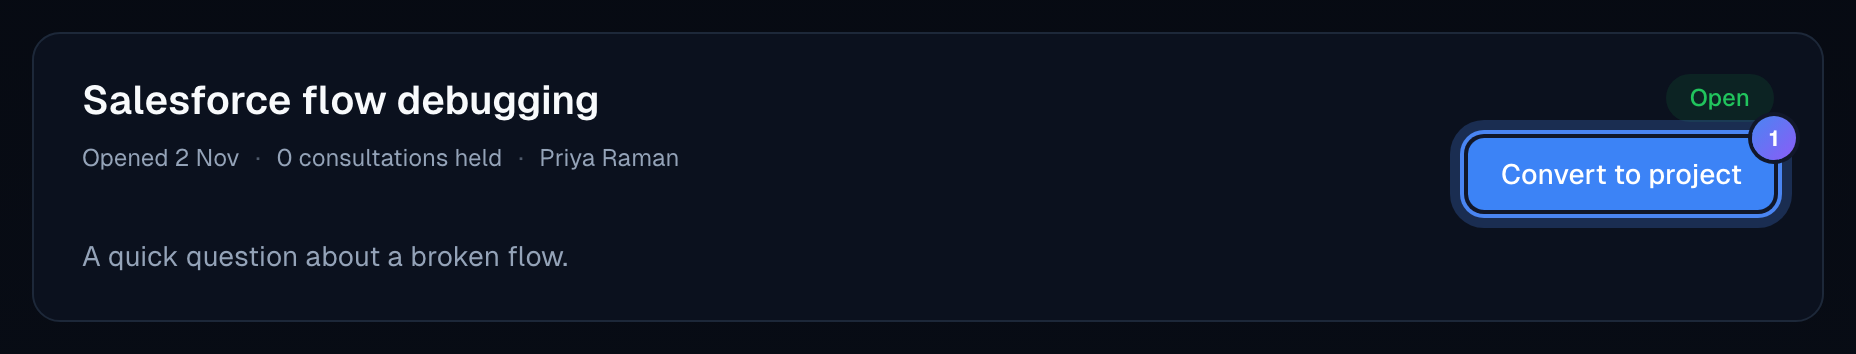
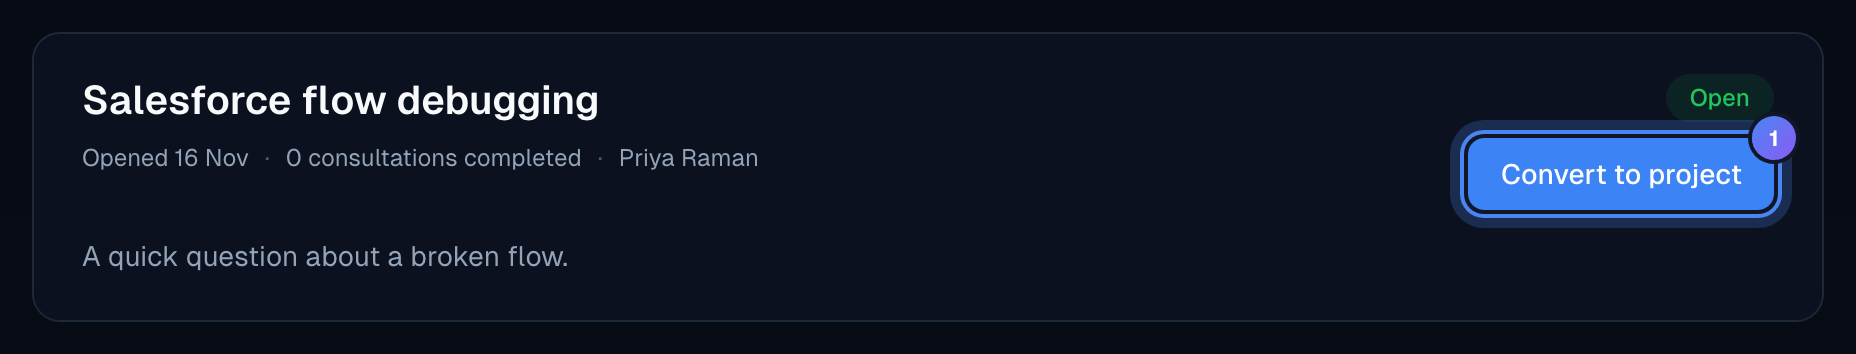
fix: finished consultations read "Completed" instead of "Held" (BAL-648) (#460)
* fix: finished consultations read "Completed" instead of "Held" (BAL-648)

Internal testers read the "Held" pill as "blocked", and the product
already uses "held" for reserved credit. User-facing copy for finished
consultations now says "Completed":

- consultation row pill: "Held" -> "Completed"
- case header: "N consultations completed"
- cases index cards: "N completed"; trail aria label
  "Consultations: 2 completed, 1 booked"
- recap money line: "N min call · billed at the …-minute minimum"
- docs/help/your-cases.md (+ regenerated help guides), design refs

Unchanged: the internal `held` state/enum/analytics values, money copy
("credit held"), and "held" in the took-place sense (flagged for MJ).

* fix: recap "Didn't take place" chip, no-show "Room open" line, counted noun, fresh help shots (BAL-648)

Review follow-ups on the Held -> Completed change:

- recap status chip: "Not held" -> "Didn't take place" (it sat beside
  "Completed" in the same chip set and negated the retired word)
- no-show money line: "N min call" -> "Room open N min · billed at the
  …-minute minimum" — the client never joined, so "call" contradicted
  the chip; this states the room time and names nobody
- case cards: "N completed" -> "N consultation(s) completed", so it
  can't be read as action items done next to "3 for you"
- help screenshots re-captured: your-cases/03 and
  turning-a-case-into-a-project/01 (light + dark) showed the old word
[…]

Changed region(s): [[0.0938, 0.404, 0.4062, 0.4661]]

diff --git a/.claude/design-references/cases-index.jsx b/.claude/design-references/cases-index.jsx
@@ -722,9 +722,14 @@ function Tags({ tags, max }) {
   );
 }
 
-/* One mark per consultation, oldest first: filled = held, ring = booked, dashed = cancelled,
+/* One mark per consultation, oldest first: filled = completed, ring = booked, dashed = cancelled,
    grey = missed. The line behind them reads as the case's timeline. */
-const TRAIL_WORDS = { held: 'held', upcoming: 'booked', cancelled: 'cancelled', missed: 'missed' };
+const TRAIL_WORDS = {
+  held: 'completed',
+  upcoming: 'booked',
+  cancelled: 'cancelled',
+  missed: 'missed',
+};
 
 function markStyle(mark) {
   const base = {
@@ -789,7 +794,11 @@ function Facts({ c }) {
         minWidth: 0,
       }}
     >
-      {c.held > 0 ? <span style={fact}>{c.held} held</span> : null}
+      {c.held > 0 ? (
+        <span style={fact}>
+          {c.held} {c.held === 1 ? 'consultation' : 'consultations'} completed
+        </span>
+      ) : null}
       {c.itemsForYou > 0 ? (
         <span style={fact}>
           <ListChecks size={13} aria-hidden="true" />
@@ -1557,7 +1566,7 @@ function ResolvedSection({ items, lens, mobile, open, setOpen, go }) {
                         {auto
                           ? `Closed automatically on ${c.closedOn}`
                           : `Resolved on ${c.closedOn}`}
-                        , {c.held} held
+                        , {c.held} {c.held === 1 ? 'consultation' : 'consultations'} completed
                       </span>
                     ) : null}
                   </span>
@@ -1569,7 +1578,7 @@ function ResolvedSection({ items, lens, mobile, open, setOpen, go }) {
                           : `Resolved on ${c.closedOn}`}
                       </span>
                       <span style={{ display: 'block', fontSize: 12, color: T.text3 }}>
-                        {c.held} held
+                        {c.held} {c.held === 1 ? 'consultation' : 'consultations'} completed
                       </span>
                     </span>
                   )}
@@ -2646,7 +2655,7 @@ function noteFor(s) {
     );
   }
   parts.push(
-    'Order: the ticket, then other bookings soonest first, then nothing-booked cases by recent activity. Dots are the case’s calls: filled held, ring booked, dashed cancelled, grey missed. No money anywhere.'
+    'Order: the ticket, then other bookings soonest first, then nothing-booked cases by recent activity. Dots are the case’s calls: filled completed, ring booked, dashed cancelled, grey missed. No money anywhere.'
   );
   if (s.navLabel === 'Consultations')
     parts.push(

diff --git a/apps/web/src/app/(dashboard)/meetings/[meetingId]/_lib/load-recap.test.ts b/apps/web/src/app/(dashboard)/meetings/[meetingId]/_lib/load-recap.test.ts
@@ -743,25 +743,25 @@ describe('loadRecap — resolve prompt, artefacts and status', () => {
     expect(view?.state).toBe('processing');
   });
 
-  it('renders the not-held panel and a Not held chip for a no-show', async () => {
+  it('renders the not-held panel and a didn’t-take-place chip for a no-show', async () => {
     mockResolveAccess.mockResolvedValue({
       ...CASE_ACCESS,
       meeting: { ...MEETING, outcome: 'no_show_client' },
     });
     const view = await loadRecap(MEETING_ID, USER_ID, NOW);
     expect(view?.state).toBe('not_held');
-    expect(view?.header.status.label).toBe('Not held');
+    expect(view?.header.status.label).toBe("Didn't take place");
     expect(view?.notHeld?.body).toBe('Amara Okafor @ CloudPeak joined and waited.');
   });
 
-  it('renders the not-held panel and a Not held chip for venue_unavailable — never Completed', async () => {
+  it('renders the not-held panel and a didn’t-take-place chip for venue_unavailable — never Completed', async () => {
     mockResolveAccess.mockResolvedValue({
       ...CASE_ACCESS,
       meeting: { ...MEETING, outcome: 'venue_unavailable' },
     });
     const view = await loadRecap(MEETING_ID, USER_ID, NOW);
     expect(view?.state).toBe('not_held');
-    expect(view?.header.status.label).toBe('Not held');
+    expect(view?.header.status.label).toBe("Didn't take place");
     expect(view?.header.status.label).not.toBe('Completed');
     expect(view?.header.status.label).not.toBe('Wrapping up');
     expect(view?.notHeld?.reason).toBe('venue_unavailable');
@@ -1007,7 +1007,7 @@ describe('loadRecap — missed_call reads client-side presence', () => {
     const view = await loadRecap(MEETING_ID, USER_ID, NOW);
     expect(view?.lens).toBe('client');
     expect(view?.state).toBe('not_held');
-    expect(view?.header.status.label).toBe('Not held');
+    expect(view?.header.status.label).toBe("Didn't take place");
     expect(view?.notHeld).toEqual(NOBODY_JOINED_NOT_HELD);
   });
 

diff --git a/packages/shared/src/credit/money-block-display.ts b/packages/shared/src/credit/money-block-display.ts
@@ -39,7 +39,7 @@ export interface DurationLinePresence {
  * two zero shapes have no number to attach — there is nothing to floor when nobody was charged)
  * and on `billingFloorApplied` second. `no_show_client` is checked ahead of `billingFloorApplied`
  * — that shape now ALWAYS sets the flag (the floor is flatly the whole charge, owner ruling
- * 2026-08-21), but it wants its own "min held" phrasing rather than the generic short-call one,
+ * 2026-08-21), but it wants its own "Room open" phrasing rather than the generic short-call one,
  * so it must be matched first.
  *
  * Quiet fact, never punitive, never scolding, gender-neutral, no absence framing — the same
@@ -78,11 +78,11 @@ export function durationLine(block: SessionMoneyBlock, presence: DurationLinePre
     // F9, UX review round 1 — `actualMinutes`, not `durationMinutes`: `durationMinutes` is the
     // BILLED figure, which on this shape is FLATLY the floor (owner ruling 2026-08-21), so it
     // would state the floor twice while discarding the real time the expert held the room.
-    // "40 min held · billed at the 15-minute minimum" is now a TRUE statement — before R1 the
+    // "Room open 40 min · billed at the 15-minute minimum" is now a TRUE statement — before R1 the
     // client was actually charged 40 while this line claimed 15.
     return block.lens === 'client'
-      ? `${block.actualMinutes} min held · billed at the ${block.billingFloorMinutes}-minute minimum` // pending-MJ
-      : `${block.actualMinutes} min held · paid the ${block.billingFloorMinutes}-minute minimum`; // pending-MJ
+      ? `Room open ${block.actualMinutes} min · billed at the ${block.billingFloorMinutes}-minute minimum` // pending-MJ
+      : `Room open ${block.actualMinutes} min · paid the ${block.billingFloorMinutes}-minute minimum`; // pending-MJ
   }
   if (block.billingFloorApplied) {
     return block.lens === 'client'

diff --git a/apps/web/src/app/(dashboard)/cases/_lib/cases-index-copy.ts b/apps/web/src/app/(dashboard)/cases/_lib/cases-index-copy.ts
@@ -135,7 +135,8 @@ export const CASES_INDEX_UNREAD = 'New';
 
 export const casesIndexLastCall = (date: string): string => `Last call ${date}`;
 export const casesIndexOpenedAt = (date: string): string => `Opened ${date}`;
-export const casesIndexHeldCount = (count: number): string => `${count} held`;
+export const casesIndexHeldCount = (count: number): string =>
+  `${count} ${count === 1 ? 'consultation' : 'consultations'} completed`;
 export const casesIndexItemsForYou = (count: number): string => `${count} for you`;
 export const casesIndexWaitingOn = (party: string): string => `Waiting on ${party}`;
 
@@ -168,11 +169,11 @@ export const CASES_INDEX_CLOSED_PREFIX = {
 
 /**
  * ⚠ THE TRAIL IS THE ONLY PURELY GRAPHICAL FACT ON THE CARD, so its `aria-label` is the whole
- * information for a screen-reader user — "Consultations: 2 held, 1 booked". `unrecorded` reads
+ * information for a screen-reader user — "Consultations: 2 completed, 1 booked". `unrecorded` reads
  * as "not recorded", never "missed": the two are different events and only one accuses somebody.
  */
 export const CASE_TRAIL_WORDS: Readonly<Record<CaseTrailMark, string>> = {
-  held: 'held',
+  held: 'completed',
   booked: 'booked',
   cancelled: 'cancelled',
   missed: 'missed',

diff --git a/apps/web/src/components/balo/recap/money-block.test.tsx b/apps/web/src/components/balo/recap/money-block.test.tsx
@@ -343,14 +343,16 @@ describe('MoneyBlock', () => {
   // real held time the expert waited is silently discarded.
   it('renders the no-show line keyed on shape, using actualMinutes not durationMinutes (client)', () => {
     render(<MoneyBlock block={CLIENT_NO_SHOW} />);
-    expect(screen.getByText('18 min held · billed at the 15-minute minimum')).toBeInTheDocument();
-    expect(screen.queryByText(/^15 min held/)).not.toBeInTheDocument();
+    expect(
+      screen.getByText('Room open 18 min · billed at the 15-minute minimum')
+    ).toBeInTheDocument();
+    expect(screen.queryByText(/Room open 15 min/)).not.toBeInTheDocument();
   });
 
   // UX review round 1, F8 — expert lens for the same shape must say "paid", never "billed".
   it('renders the no-show line for the expert lens', () => {
     render(<MoneyBlock block={EXPERT_NO_SHOW} />);
-    expect(screen.getByText('18 min held · paid the 15-minute minimum')).toBeInTheDocument();
+    expect(screen.getByText('Room open 18 min · paid the 15-minute minimum')).toBeInTheDocument();
     expect(screen.queryByText(/billed/)).not.toBeInTheDocument();
   });
 

diff --git a/apps/web/src/app/(dashboard)/cases/[engagementId]/_components/case-header.test.tsx b/apps/web/src/app/(dashboard)/cases/[engagementId]/_components/case-header.test.tsx
@@ -129,14 +129,14 @@ describe('CaseHeader — the record it states', () => {
     stubOverflow(false);
     render(<CaseHeader header={BASE} />);
     expect(screen.getByRole('heading', { name: 'Flow interview loop' })).toBeInTheDocument();
-    expect(screen.getByText(/2 consultations held/)).toBeInTheDocument();
+    expect(screen.getByText(/2 consultations completed/)).toBeInTheDocument();
     expect(screen.getByText('CloudPeak')).toBeInTheDocument();
   });
 
   it('singularises a single held consultation', () => {
     stubOverflow(false);
     render(<CaseHeader header={{ ...BASE, heldConsultationCount: 1 }} />);
-    expect(screen.getByText(/1 consultation held/)).toBeInTheDocument();
+    expect(screen.getByText(/1 consultation completed/)).toBeInTheDocument();
   });
 
   it('renders the sanitised description markup', () => {

diff --git a/apps/web/src/app/(dashboard)/cases/_components/case-card.test.tsx b/apps/web/src/app/(dashboard)/cases/_components/case-card.test.tsx
@@ -386,7 +386,7 @@ describe('CaseCard — the footer facts', () => {
   it('announces the trail as ONE accessible name, never five shapes', () => {
     render(<CaseCard card={card()} side="company" dense={false} clock={CLOCK} onTrack={vi.fn()} />);
     expect(
-      screen.getByRole('img', { name: 'Consultations: 1 held, 1 booked' })
+      screen.getByRole('img', { name: 'Consultations: 1 completed, 1 booked' })
     ).toBeInTheDocument();
   });
 
@@ -400,7 +400,7 @@ describe('CaseCard — the footer facts', () => {
         onTrack={vi.fn()}
       />
     );
-    expect(screen.queryByText(/0 held|0 for you/)).not.toBeInTheDocument();
+    expect(screen.queryByText(/0 consultations completed|0 for you/)).not.toBeInTheDocument();
     expect(screen.queryByText('New')).not.toBeInTheDocument();
   });
 

diff --git a/apps/web/src/app/(dashboard)/cases/_components/case-trail.tsx b/apps/web/src/app/(dashboard)/cases/_components/case-trail.tsx
@@ -8,7 +8,7 @@ import type { CaseTrailEntry, CaseTrailMark } from '../_lib/cases-index-view-typ
  *
  * ⚠⚠ THE MARKS ARE `aria-hidden` AND THE WHOLE ROW CARRIES ONE `role="img"` + `aria-label`.
  * Individually they are meaningless shapes; announced one at a time they would be five pieces of
- * noise. The label — "Consultations: 2 held, 1 booked" — is the entire information, and it is
+ * noise. The label — "Consultations: 2 completed, 1 booked" — is the entire information, and it is
  * built by `caseTrailAriaLabel` so the index and any future surface word it identically.
  *
  * ⚠ THE KEY IS THE CONSULTATION'S ORDINAL, NEVER THE ARRAY INDEX (SonarCloud S6479 flags an

diff --git a/packages/shared/src/credit/money-block.test.ts b/packages/shared/src/credit/money-block.test.ts
@@ -178,7 +178,7 @@ describe('BAL-412 — actualMinutes / billingFloorApplied / billingFloorMinutes 
     // R1 — `no_show_client` bills the floor FLAT (owner ruling, 2026-08-21), so the BILLED figure
     // (15) is BELOW `actualMinutes` (40). The old re-derivation `durationMinutes > actualMinutes`
     // reported `false` here — on the very shape where the floor IS the entire charge. The
-    // snapshot says `true`, and the recap's "40 min held · billed at the 15-minute minimum" is
+    // snapshot says `true`, and the recap's "Room open 40 min · billed at the 15-minute minimum" is
     // now a true statement.
     const block = buildClientMoneyBlock(
       clientInput({

diff --git a/packages/shared/src/credit/money-block-display.test.ts b/packages/shared/src/credit/money-block-display.test.ts
@@ -135,9 +135,11 @@ describe('durationLine', () => {
 
   it('renders the no-show line keyed on shape, using actualMinutes not durationMinutes', () => {
     expect(durationLine(CLIENT_NO_SHOW, NOT_READ)).toBe(
-      '18 min held · billed at the 15-minute minimum'
+      'Room open 18 min · billed at the 15-minute minimum'
     );
-    expect(durationLine(EXPERT_NO_SHOW, NOT_READ)).toBe('18 min held · paid the 15-minute minimum');
+    expect(durationLine(EXPERT_NO_SHOW, NOT_READ)).toBe(
+      'Room open 18 min · paid the 15-minute minimum'
+    );
   });
 
   it('renders the missed-call line, per lens', () => {

diff --git a/apps/web/src/app/(dashboard)/meetings/[meetingId]/_components/recap-status-chip.tsx b/apps/web/src/app/(dashboard)/meetings/[meetingId]/_components/recap-status-chip.tsx
@@ -12,7 +12,7 @@ import type { RecapStatusTone, RecapStatusView } from '@/lib/meetings/recap-view
  * cannot honestly supply. This chip carries the recap's own four labels, reuses the same
  * shipped `Badge` primitive and the same semantic tokens, and adds nothing else.
  *
- * ⚠ THE CHIP NEVER NAMES WHO WAS ABSENT. Both no-show outcomes read "Not held"; who was where
+ * ⚠ THE CHIP NEVER NAMES WHO WAS ABSENT. Both no-show outcomes read "Didn't take place"; who was where
  * is R11's body copy's job, stated exactly once.
  */
 const ICONS: Record<RecapStatusView['icon'], LucideIcon> = {

diff --git a/apps/web/src/app/(dashboard)/cases/_components/cases-index-shell.test.tsx b/apps/web/src/app/(dashboard)/cases/_components/cases-index-shell.test.tsx
@@ -731,7 +731,7 @@ describe('CasesIndexShell — the Resolved section', () => {
     });
     expect(await screen.findByText('Einstein bot handoff')).toBeInTheDocument();
     expect(screen.getByText('Closed automatically on')).toBeInTheDocument();
-    expect(screen.getByText('1 held')).toBeInTheDocument();
+    expect(screen.getByText('1 consultation completed')).toBeInTheDocument();
 
     await user.click(toggle);
     expect(track).toHaveBeenCalledWith(RECAP_EVENTS.CASES_INDEX_RESOLVED_TOGGLED, {
